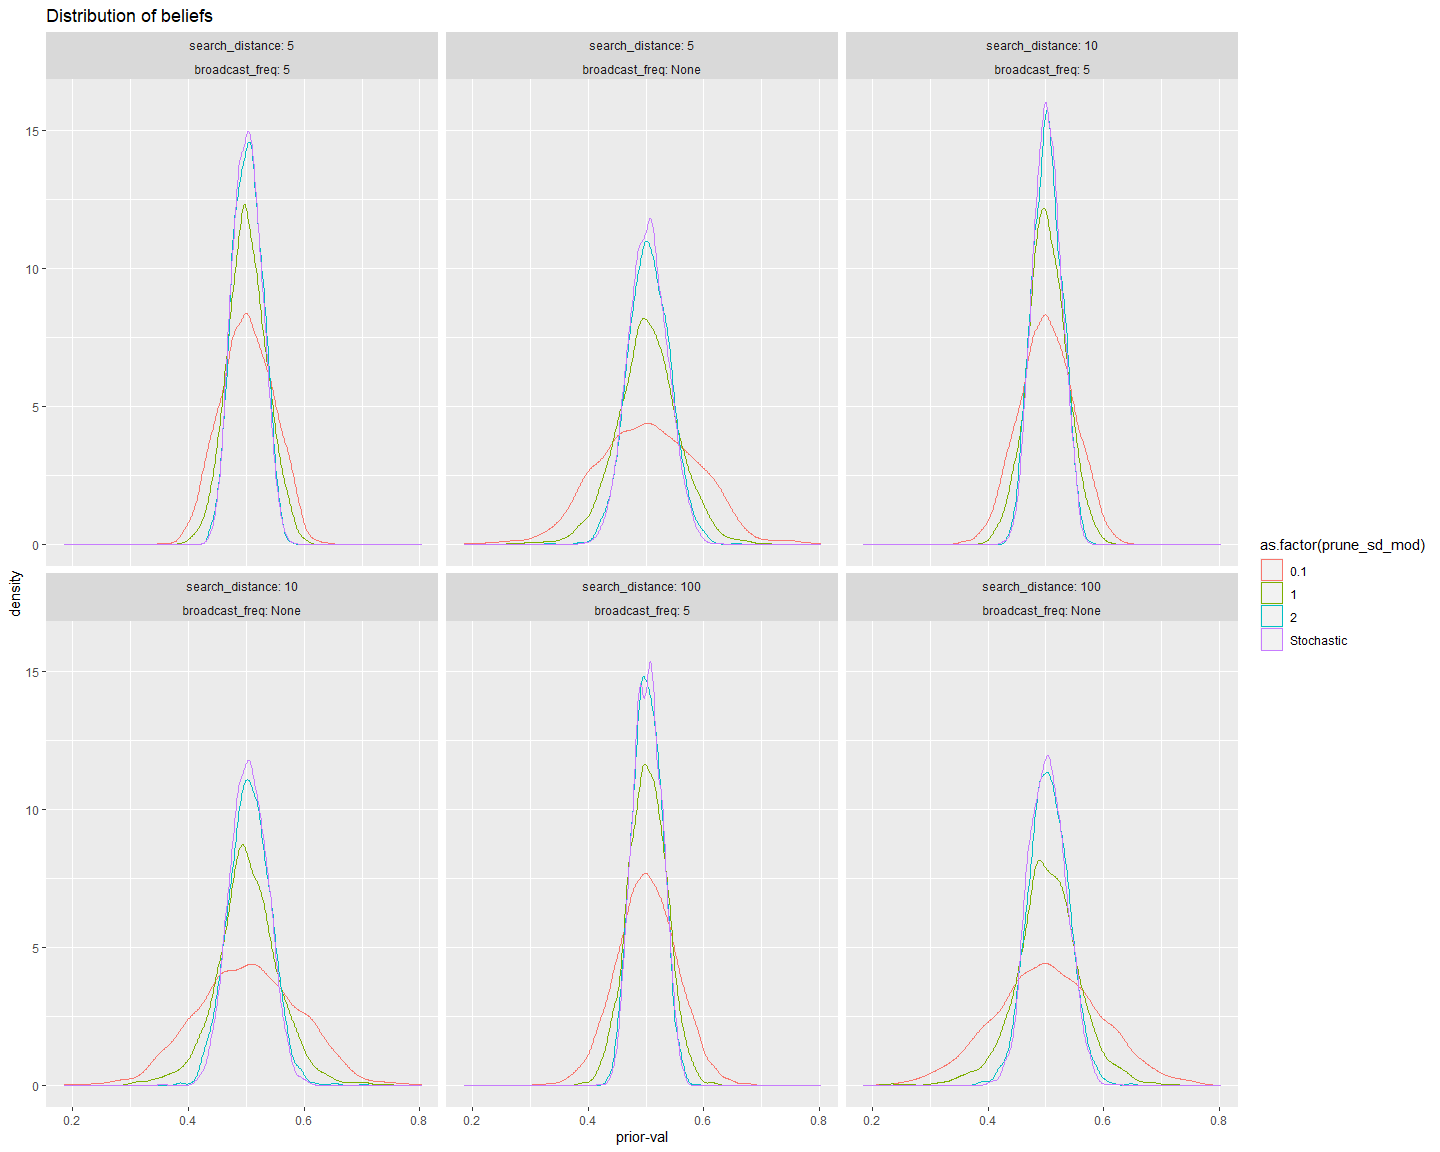
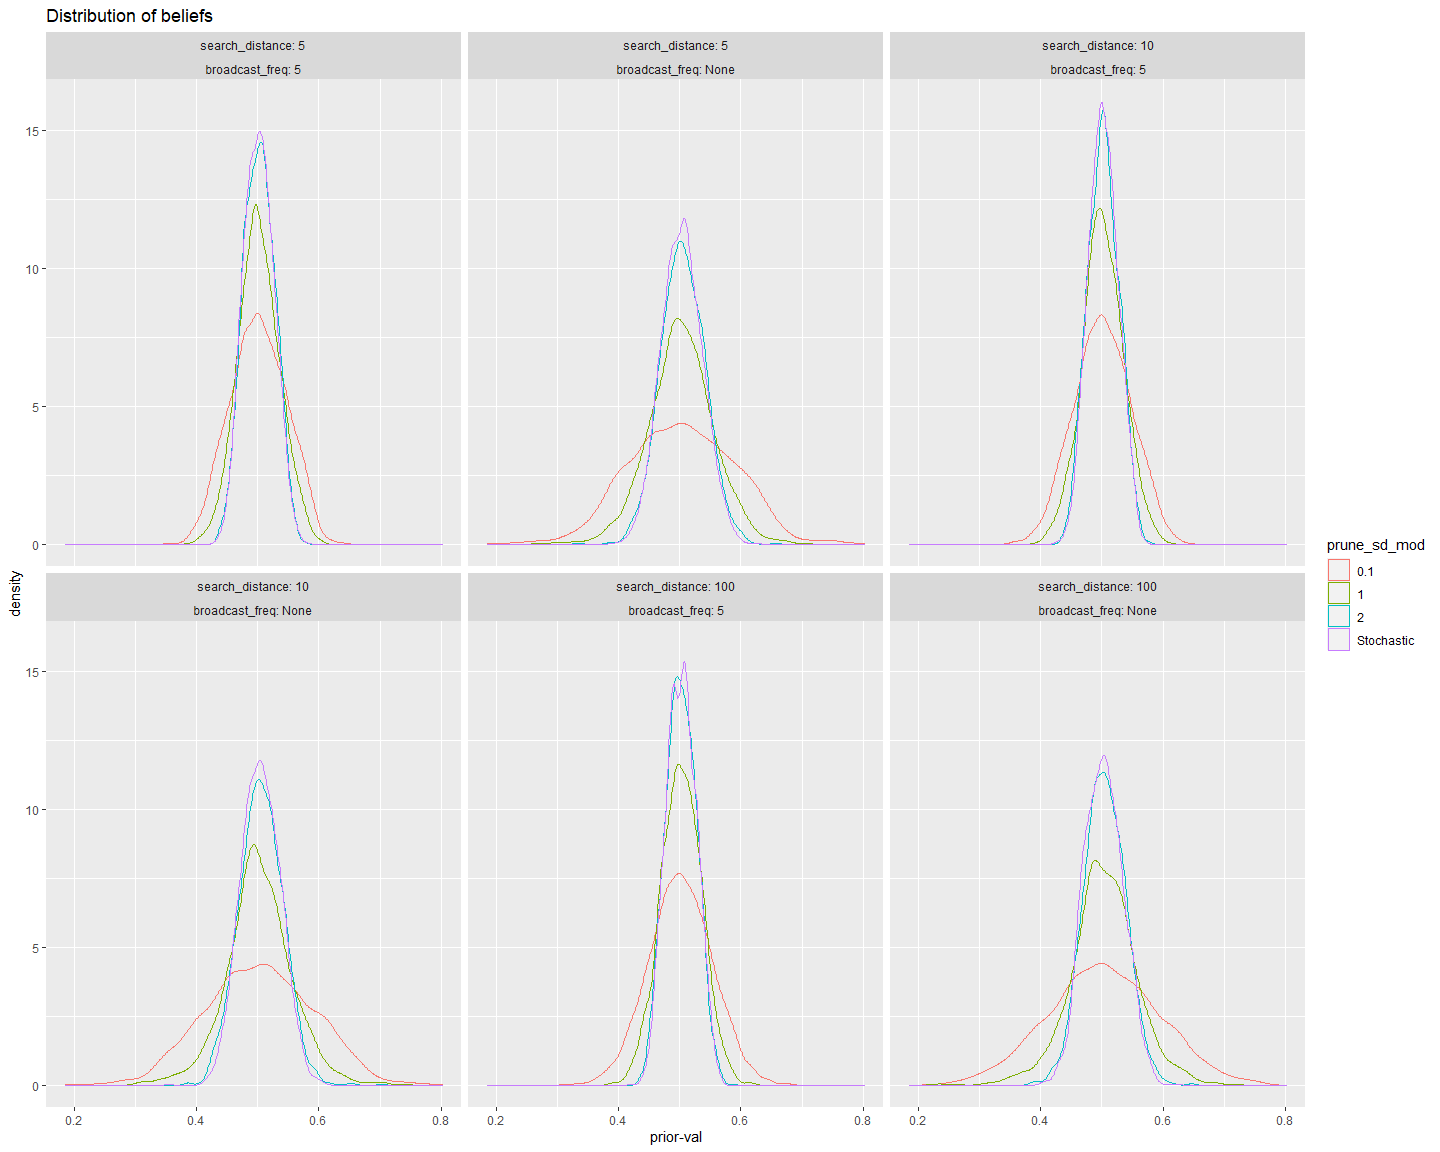
small fixes

diff --git a/echoPlots.md b/echoPlots.md
@@ -107,12 +107,9 @@ distributionData %>% filter(numlearners == 1000) %>%
   ggplot(aes(
     `prior-val`,
     search_distance,
-    fill = as.factor(prune_sd_mod),
-    alpha = as.factor(broadcast_freq)
+    fill = prune_sd_mod
   ))  + facet_wrap(censorship_mod ~ broadcast_freq, labeller = label_both) + geom_boxplot(outlier.size = 0.1) + ggtitle("Distribution of beliefs")
 ```
-
-    ## Warning: Using alpha for a discrete variable is not advised.
 
 ![](echoPlots_files/figure-gfm/unnamed-chunk-1-1.png)<!-- -->
 
@@ -120,7 +117,7 @@ distributionData %>% filter(numlearners == 1000) %>%
 ABM_Data %>% filter(numlearners == 1000, search_distance != 10) %>%
   ggplot(aes(step_id,
              glob_p_h,
-             color = as.factor(prune_sd_mod))) + facet_wrap(search_distance ~ censorship_mod ~ broadcast_freq, labeller = label_both) + geom_smooth(size = 0.1) + ggtitle("Growth of confidence over time")
+             color = prune_sd_mod)) + facet_wrap(search_distance ~ censorship_mod ~ broadcast_freq, labeller = label_both) + geom_smooth(size = 0.1, alpha = 0.1) + ggtitle("Growth of confidence over time")
 ```
 
     ## `geom_smooth()` using method = 'loess' and formula 'y ~ x'
@@ -132,9 +129,9 @@ ABM_Data %>%
   ggplot(aes(
     step_id,
     glob_p_h,
-    linetype = as.factor(censorship_mod),
-    color = as.factor(prune_sd_mod)
-  )) + facet_wrap(search_distance ~ numlearners ~ broadcast_freq, labeller = label_both) + geom_smooth(size = 0.1) + ggtitle("Growth of confidence over time")
+    linetype = censorship_mod,
+    color = prune_sd_mod
+  )) + facet_wrap(search_distance ~ numlearners ~ broadcast_freq, labeller = label_both) + geom_smooth(size = 0.1, alpha = 0.1) + ggtitle("Growth of confidence over time")
 ```
 
     ## `geom_smooth()` using method = 'loess' and formula 'y ~ x'
@@ -161,7 +158,7 @@ ABM_Data %>%
 ``` r
 distributionData %>% filter(step_id == 40, numlearners == 1000, censorship_mod == "None") %>%
   ggplot(aes(`prior-val`,
-             color = as.factor(prune_sd_mod))) + geom_density() + facet_wrap(search_distance ~
+             color = prune_sd_mod)) + geom_density() + facet_wrap(search_distance ~
                                                                                broadcast_freq, labeller = label_both) + ggtitle("Distribution of beliefs")
 ```
 
@@ -170,8 +167,8 @@ distributionData %>% filter(step_id == 40, numlearners == 1000, censorship_mod =
 ``` r
 distributionData %>% filter(step_id == "1", numlearners == 1000) %>%  ggplot(aes(
   `prior-val`,
-  color = as.factor(prune_sd_mod),
-  linetype = as.factor(censorship_mod)
+  color = prune_sd_mod,
+  linetype = censorship_mod
 )) + facet_wrap(broadcast_freq ~ numlearners ~ run_id, labeller = label_both) + geom_density() + ggtitle("Distribution of beliefs")
 ```
 
@@ -180,8 +177,8 @@ distributionData %>% filter(step_id == "1", numlearners == 1000) %>%  ggplot(aes
 ``` r
 distributionData %>% filter(numlearners == 1000, search_distance == 10, step_id == 40) %>%  ggplot(aes(
   `prior-val`,
-  color = as.factor(censorship_mod),
-  linetype = as.factor(censorship_mod)
+  color = censorship_mod,
+  linetype = censorship_mod
 )) + facet_wrap(broadcast_freq ~ prune_sd_mod, labeller = label_both) + geom_density() + ggtitle("Distribution of beliefs")
 ```
 
@@ -191,9 +188,9 @@ distributionData %>% filter(numlearners == 1000, search_distance == 10, step_id 
 ABM_Data %>% filter(numlearners == 1000, search_distance == 10) %>%  ggplot(aes(
   step_id,
   glob_sd,
-  color = as.factor(censorship_mod),
-  linetype = as.factor(censorship_mod)
-)) + facet_wrap(broadcast_freq ~ prune_sd_mod, labeller = label_both) + geom_smooth() + ggtitle("Decrease in SD of beleif over time")
+  color = censorship_mod,
+  linetype = censorship_mod
+)) + facet_wrap(broadcast_freq ~ prune_sd_mod, labeller = label_both) + geom_smooth(alpha = 0.1) + ggtitle("Decrease in SD of beleif over time")
 ```
 
     ## `geom_smooth()` using method = 'loess' and formula 'y ~ x'
